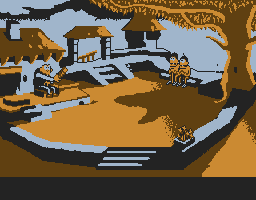
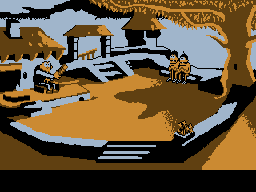
Goblin: Resized bitmaps and fixed NES chunks.

diff --git a/projects/goblin/src/scene.c b/projects/goblin/src/scene.c
@@ -55,9 +55,8 @@ void InitScene()
 	}
 
 	// Prepare graphic animations
-	for (i=0; i<num_chunks; i++) {
+	for (i=0; i<num_chunks; i++) 
 		LoadChunk(&chunkData[i], &strings[chunkNames[i]]);
-	}
 
 	// Grab background of some animations
 	coords = chunkData[0]; GetChunk(&chunkBckg[0], coords[0], coords[1], coords[2], coords[3]);  // Grab Notable bakground

diff --git a/projects/goblin/src/definitions.h b/projects/goblin/src/definitions.h
@@ -5,8 +5,8 @@
 #if defined __NES__		// All B/W
 	#define MSG_WIDTH	   TXT_COLS
 	#define INK_DEFAULT		WHITE
-	#define INK_GOBLIN		WHITE
-	#define INK_INTERACT	WHITE
+	#define INK_GOBLIN		GREEN
+	#define INK_INTERACT	RED
 	#define INK_INVENTORY	WHITE
 #else
 	#define MSG_WIDTH	  TXT_COLS-8
